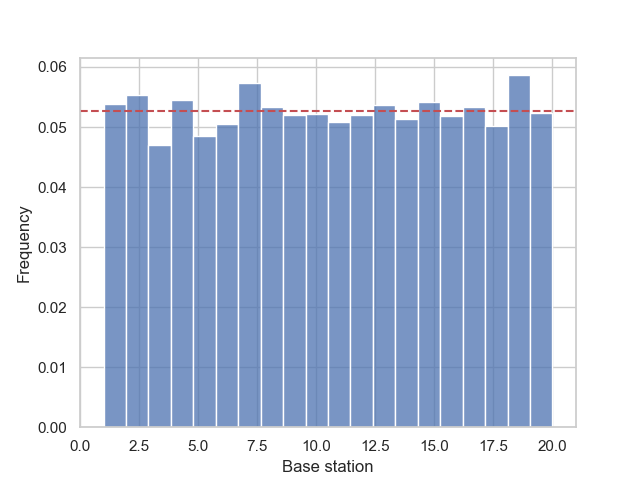
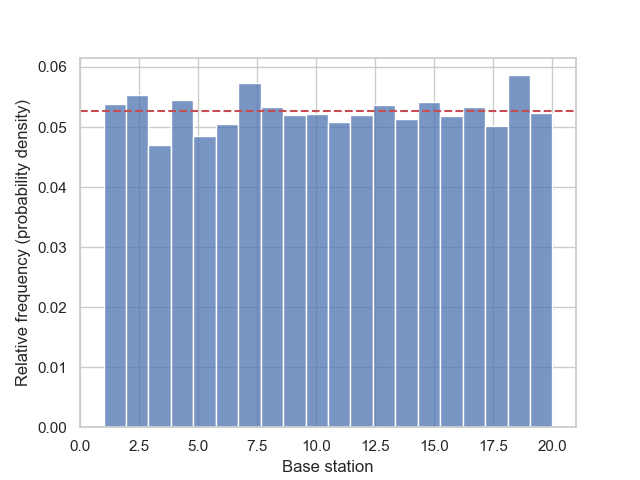
fixed axis minor mislabelling

Changed region(s): [[0.0, 0.2188, 0.0625, 0.8125]]

diff --git a/input_analysis.py b/input_analysis.py
@@ -12,13 +12,13 @@ def interarrival_time_histogram(df, bins=40, pdf=True):
     sns.set(style='whitegrid')
     plt.figure()
     plt.xlabel('Interarrival time (sec)')
-    plt.ylabel('Frequency')
     xlim = 7.5
     plt.xlim(0,xlim)
 
     if pdf is False:
         # Plot histogram.
         sns.histplot(data=df, x='Interarrival time (sec)', bins=bins)
+        plt.ylabel('Frequency')
         plt.savefig('figures/interarrival_time_histogram.png')
 
     else:
@@ -30,6 +30,7 @@ def interarrival_time_histogram(df, bins=40, pdf=True):
         pdf = 1/estimator * np.exp(-x/estimator)
         # Plot estimated pdf
         plt.plot(x,pdf,'r--')
+        plt.ylabel('Relative frequency (probability density)')
         plt.savefig('figures/interarrival_time_pdf.png')
 
     plt.show()
@@ -42,12 +43,12 @@ def base_station_histogram(df, bins=20, pdf=True):
     sns.set(style='whitegrid')
     plt.figure()
     plt.xlabel('Base station')
-    plt.ylabel('Frequency')
     xlim = 21
     plt.xlim(0,xlim)
 
     if pdf is False:
         sns.histplot(data=df, x='Base station ', bins=bins)
+        plt.ylabel('Frequency')
         plt.savefig('figures/base_station_histogram.png')
 
     else:
@@ -60,6 +61,7 @@ def base_station_histogram(df, bins=20, pdf=True):
         # Plot estimated pdf
         x = np.linspace(0, xlim, 1000)
         plt.plot(x,pdf,'r--')
+        plt.ylabel('Relative frequency (probability density)')
         plt.savefig('figures/base_station_pdf.png')
 
     plt.show()
@@ -72,13 +74,13 @@ def call_duration_histogram(df, bins=40, pdf=True):
     sns.set(style='whitegrid')
     plt.figure()
     plt.xlabel('Call duration')
-    plt.ylabel('Frequency')
     xlim = 550
     plt.xlim(0, xlim)
 
     if pdf is False:
         # Plot histogram.
         sns.histplot(data=df, x='Call duration (sec)', bins=bins)
+        plt.ylabel('Frequency')
         plt.savefig('figures/call_duration_histogram.png')
 
     else:
@@ -90,6 +92,7 @@ def call_duration_histogram(df, bins=40, pdf=True):
         pdf = 1/estimator * np.exp(-x/estimator)
         # Plot estimated pdf
         plt.plot(x,pdf,'r--')
+        plt.ylabel('Relative frequency (probability density)')
         plt.savefig('figures/call_duration_pdf.png')
     
     plt.show()
@@ -102,7 +105,6 @@ def car_speed_histogram(df, bins=30, pdf=True):
     sns.set(style='whitegrid')
     plt.figure()
     plt.xlabel('Car speed')
-    plt.ylabel('Frequency')
     xlim_min = 90
     xlim_max = 152
     plt.xlim(xlim_min, xlim_max)
@@ -110,6 +112,7 @@ def car_speed_histogram(df, bins=30, pdf=True):
     if pdf is False:
         # Plot histogram
         sns.histplot(data=df, x='velocity (km/h)', bins=bins)
+        plt.ylabel('Frequency')
         plt.savefig('figures/car_speed_histogram.png')
     
     else:
@@ -121,6 +124,7 @@ def car_speed_histogram(df, bins=30, pdf=True):
         pdf = norm.pdf(x, loc=sample_mean, scale=sample_stdev)
         # Plot estimated pdf
         plt.plot(x,pdf,'r--')
+        plt.ylabel('Relative frequency (probability density)')
         plt.savefig('figures/car_speed_pdf.png')
 
     plt.show()
@@ -132,3 +136,7 @@ if __name__ == '__main__':
     base_station_histogram(df)
     call_duration_histogram(df)
     car_speed_histogram(df)
+    interarrival_time_histogram(df, pdf=False)
+    base_station_histogram(df, pdf=False)
+    call_duration_histogram(df, pdf=False)
+    car_speed_histogram(df, pdf=False)
